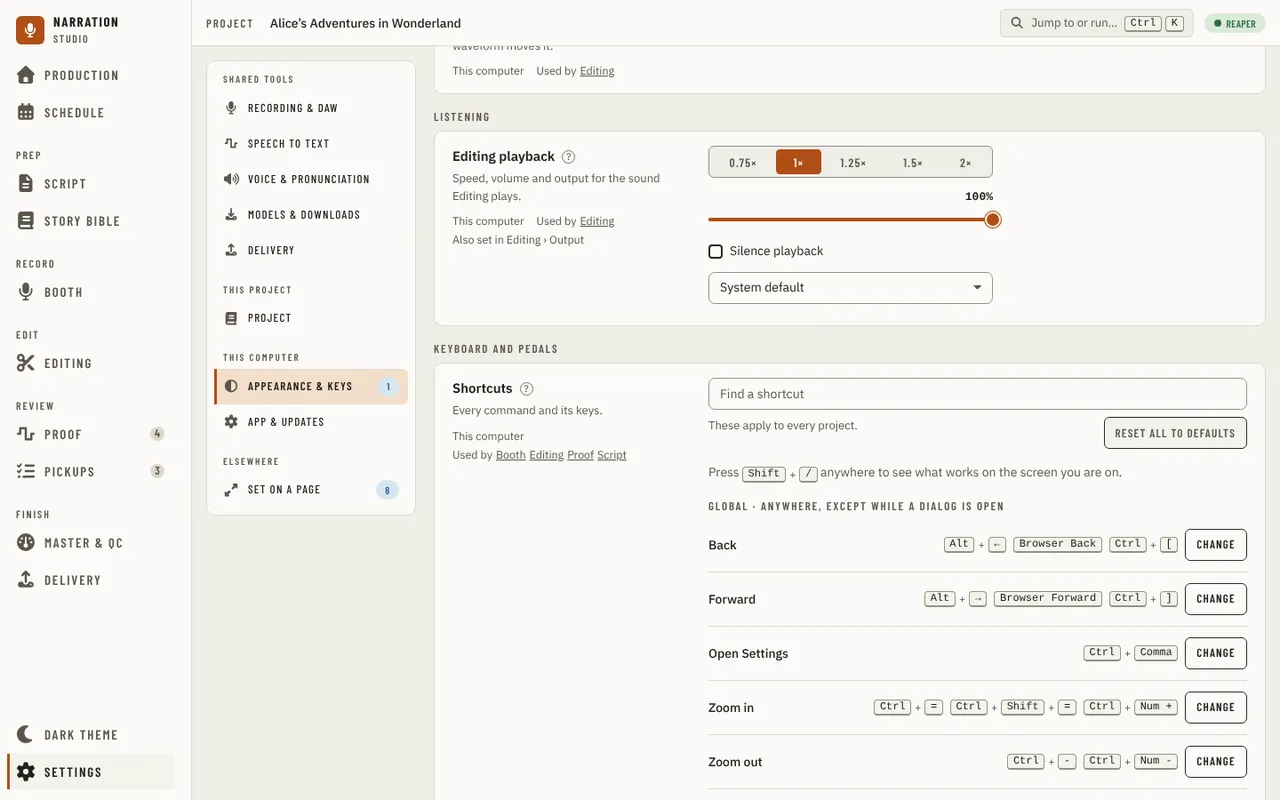
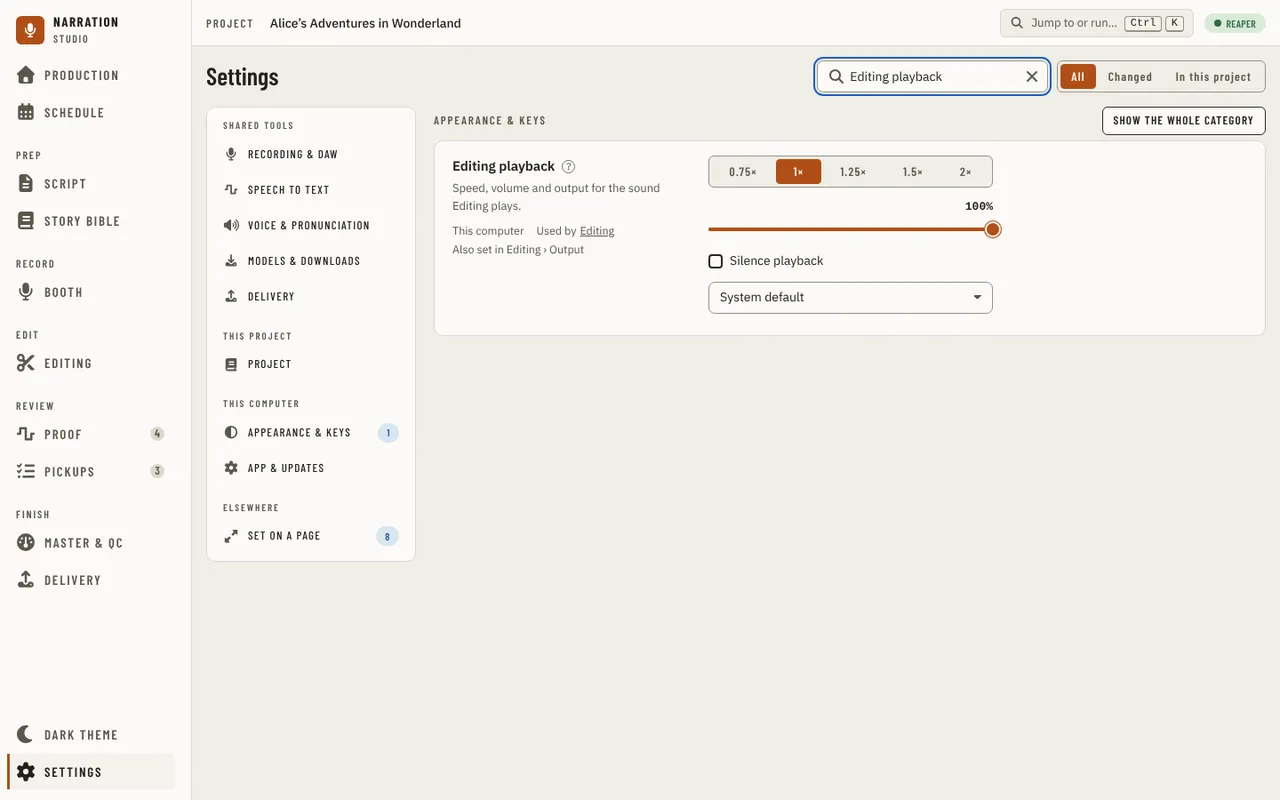
test(settings): editing playback state is shown by search, with its guide image
Refs #2251, Refs #2815

Claude-Session: https://claude.ai/code/session_01EBTykexrdZFchRHE5VJWsN

diff --git a/src/studio/ui/tests/visual/drivers/settings.ts b/src/studio/ui/tests/visual/drivers/settings.ts
@@ -406,9 +406,11 @@ export const settingsDrivers: Record<string, Driver> = {
     await row.getByRole('slider', { name: 'Booth text size' }).waitFor();
   },
   'editing-playback': async (page) => {
-    await openSettings(page, 'Appearance & keys');
-    const row = await showSettingsRow(page, 'look.playback');
-    await row.getByRole('slider', { name: 'Playback volume' }).waitFor();
+    // Found by search, so the row is shown whole on its own (the Shortcuts list below it in the category has its own layout debt to settle).
+    await openSettings(page);
+    await page.getByRole('textbox', { name: 'Search settings' }).fill('Editing playback');
+    await page.getByText(/\d+ settings? found/).waitFor();
+    await page.locator('[data-row="look.playback"]').getByRole('slider', { name: 'Playback volume' }).waitFor();
   },
   'effects-cap': async (page) => {
     await openSettings(page, 'Recording & DAW');
